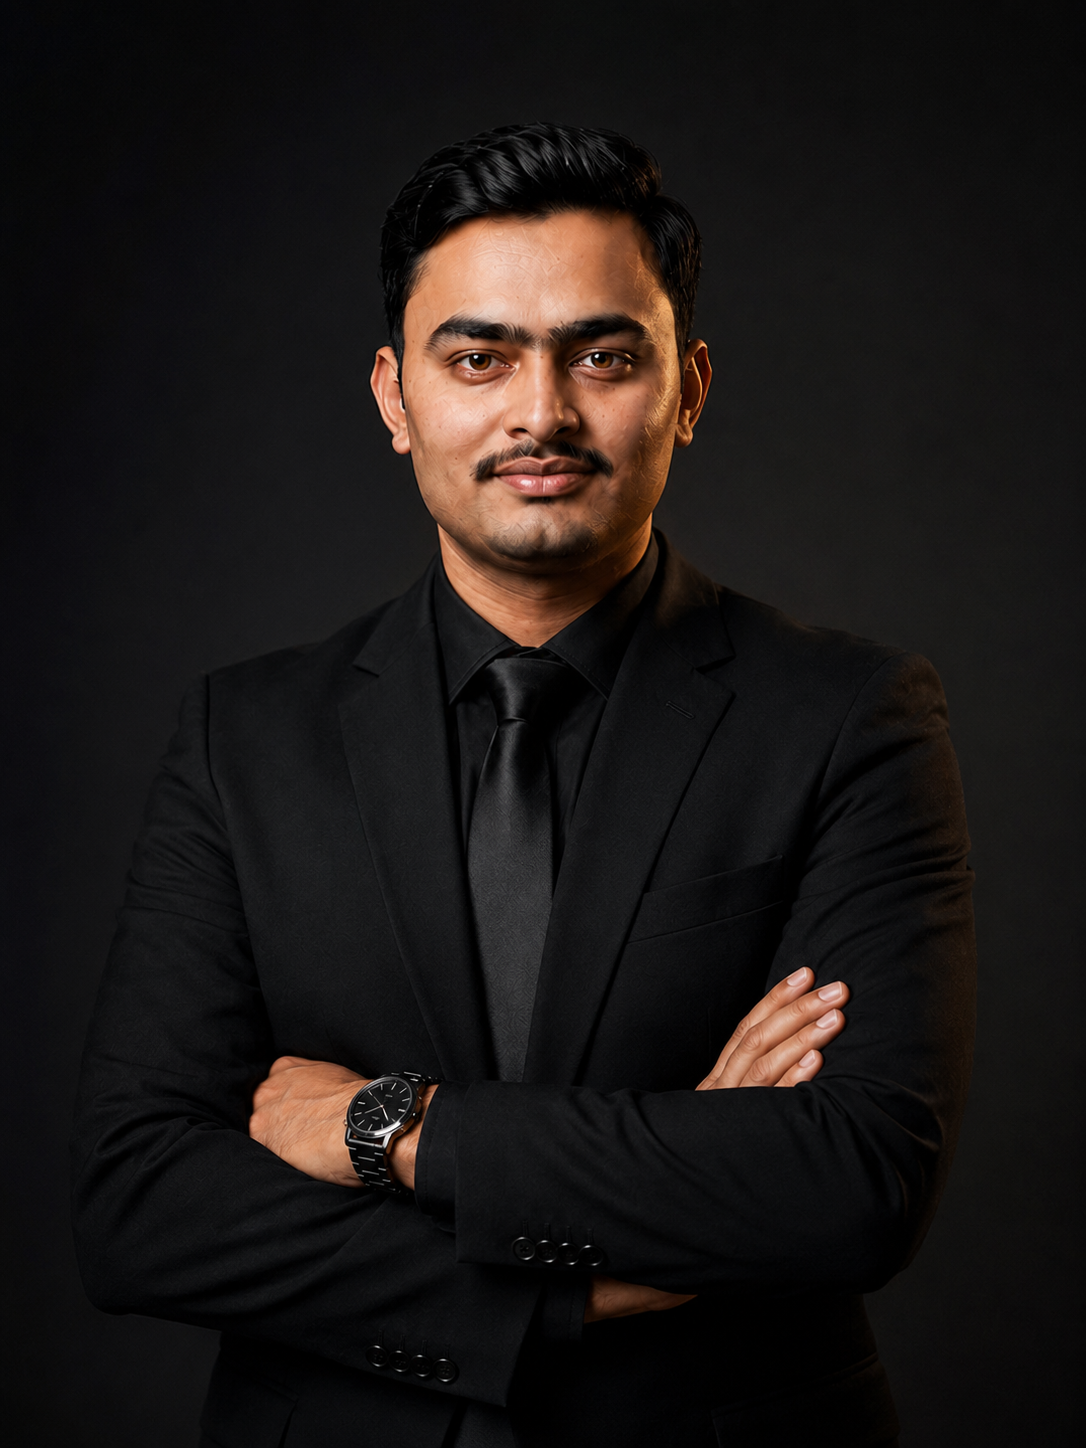
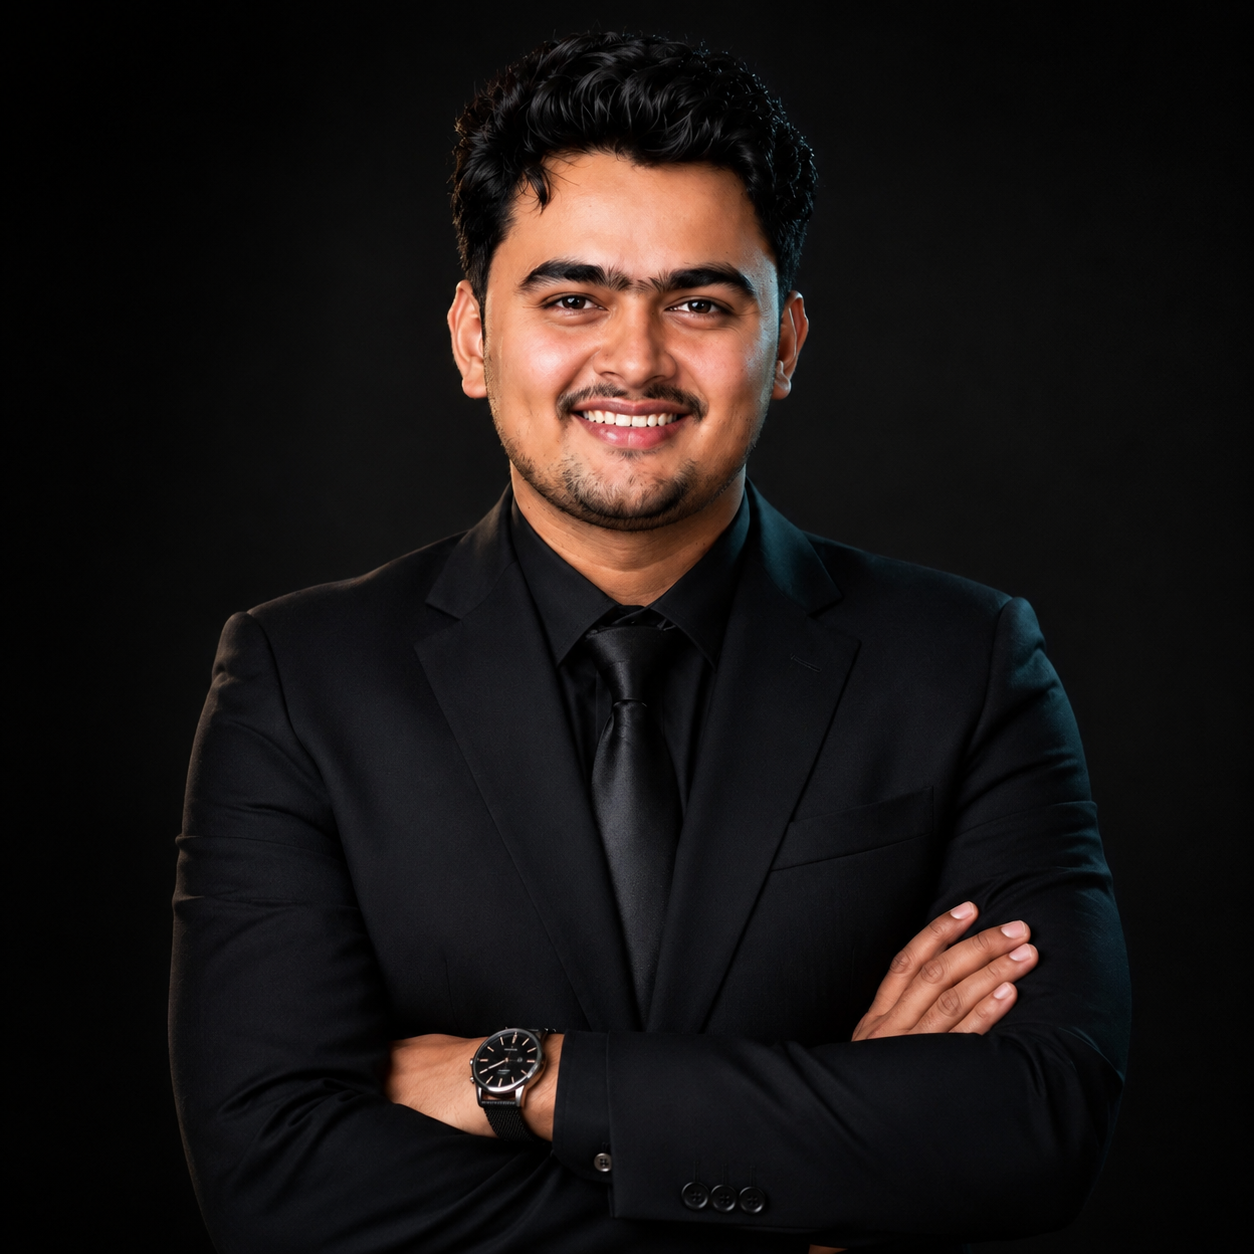
update file

diff --git a/src/pages-Blogs/BlogAdmin.tsx b/src/pages-Blogs/BlogAdmin.tsx
@@ -175,32 +175,50 @@ const BlogAdmin: React.FC = () => {
     }
   };
 
+  const ALLOWED_IMAGE_TYPES = ["image/jpeg", "image/png", "image/gif", "image/webp"];
+
+  const uploadBlogImage = async (file: File, prefix: "cover" | "content") => {
+    const { data: { user }, error: authError } = await supabase.auth.getUser();
+    if (authError) throw authError;
+    if (!user) throw new Error("You must be signed in to upload images.");
+
+    if (!ALLOWED_IMAGE_TYPES.includes(file.type)) {
+      throw new Error(`File type "${file.type || "unknown"}" is not allowed. Use JPG, PNG, GIF, or WebP.`);
+    }
+
+    const fileExt = file.name.split(".").pop()?.toLowerCase() || "jpg";
+    const fileName = `${prefix}-${Date.now()}-${Math.random().toString(36).slice(2)}.${fileExt}`;
+    const filePath = `${user.id}/${fileName}`;
+
+    const { error: uploadError } = await supabase.storage
+      .from("blog-images")
+      .upload(filePath, file, {
+        contentType: file.type,
+        cacheControl: "3600",
+        upsert: false,
+      });
+
+    if (uploadError) throw uploadError;
+
+    const { data } = supabase.storage.from("blog-images").getPublicUrl(filePath);
+    return data.publicUrl;
+  };
+
   const handleImageUpload = async (e: React.ChangeEvent<HTMLInputElement>) => {
     try {
       const file = e.target.files?.[0];
       if (!file) return;
 
       setUploadingImage(true);
-      const fileExt = file.name.split('.').pop();
-      const fileName = `${Math.random()}.${fileExt}`;
-      const filePath = `${fileName}`;
-
-      const { error: uploadError } = await supabase.storage
-        .from('blog-images')
-        .upload(filePath, file);
-
-      if (uploadError) throw uploadError;
-
-      const { data } = supabase.storage
-        .from('blog-images')
-        .getPublicUrl(filePath);
-
-      setEditingBlog(prev => ({ ...prev, image_url: data.publicUrl }));
-    } catch (error) {
+      const publicUrl = await uploadBlogImage(file, "cover");
+      setEditingBlog(prev => ({ ...prev, image_url: publicUrl }));
+      toast.success("Cover image uploaded.");
+    } catch (error: any) {
       console.error("Error uploading image:", error);
-      alert("Error uploading image. Make sure the 'blog-images' bucket is public.");
+      toast.error(error.message || "Failed to upload image. Check storage policies in Supabase.");
     } finally {
       setUploadingImage(false);
+      e.target.value = "";
     }
   };
 
@@ -210,30 +228,19 @@ const BlogAdmin: React.FC = () => {
       if (!file) return;
 
       setUploadingContentImage(true);
-      const fileExt = file.name.split('.').pop();
-      const fileName = `content-${Math.random()}.${fileExt}`;
-      const filePath = `${fileName}`;
-
-      const { error: uploadError } = await supabase.storage
-        .from('blog-images')
-        .upload(filePath, file);
-
-      if (uploadError) throw uploadError;
-
-      const { data } = supabase.storage
-        .from('blog-images')
-        .getPublicUrl(filePath);
-
-      const markdownImage = `\n![Image description](${data.publicUrl})\n`;
-      setEditingBlog(prev => ({ 
-        ...prev, 
-        content: (prev?.content || '') + markdownImage 
+      const publicUrl = await uploadBlogImage(file, "content");
+      const markdownImage = `\n![Image description](${publicUrl})\n`;
+      setEditingBlog(prev => ({
+        ...prev,
+        content: (prev?.content || "") + markdownImage,
       }));
-    } catch (error) {
+      toast.success("Image inserted into content.");
+    } catch (error: any) {
       console.error("Error uploading content image:", error);
-      alert("Error uploading image. Make sure the 'blog-images' bucket is public.");
+      toast.error(error.message || "Failed to upload image. Check storage policies in Supabase.");
     } finally {
       setUploadingContentImage(false);
+      e.target.value = "";
     }
   };
 
@@ -782,7 +789,7 @@ const BlogAdmin: React.FC = () => {
 
                 {editingBlog?.image_url && (
                   <div className="relative group">
-                    <div className="w-full aspect-video md:aspect-[21/9] rounded-none overflow-hidden border border-gray-100 shadow-sm relative">
+                    <div className="w-full aspect-[4/3] md:aspect-[16/9] rounded-none overflow-hidden border border-gray-100 shadow-sm relative">
                       <img src={editingBlog.image_url} alt="Cover" className="w-full h-full object-cover transition duration-700 group-hover:scale-105" />
                       
                       <button 

diff --git a/src/pages-Blogs/Blogs.tsx b/src/pages-Blogs/Blogs.tsx
@@ -450,7 +450,7 @@ const Blogs: React.FC = () => {
                   <img
                     src={selectedBlog.image_url}
                     alt={selectedBlog.title}
-                    className="w-full h-[320px] md:h-[480px] object-cover transition-transform duration-700 group-hover/cover:scale-105"
+                    className="w-full h-[400px] md:h-[600px] object-cover transition-transform duration-700 group-hover/cover:scale-105"
                   />
                   {/* Bottom gradient fade for title readability */}
                   <div className="absolute inset-0 bg-gradient-to-t from-black/50 via-black/10 to-transparent" />